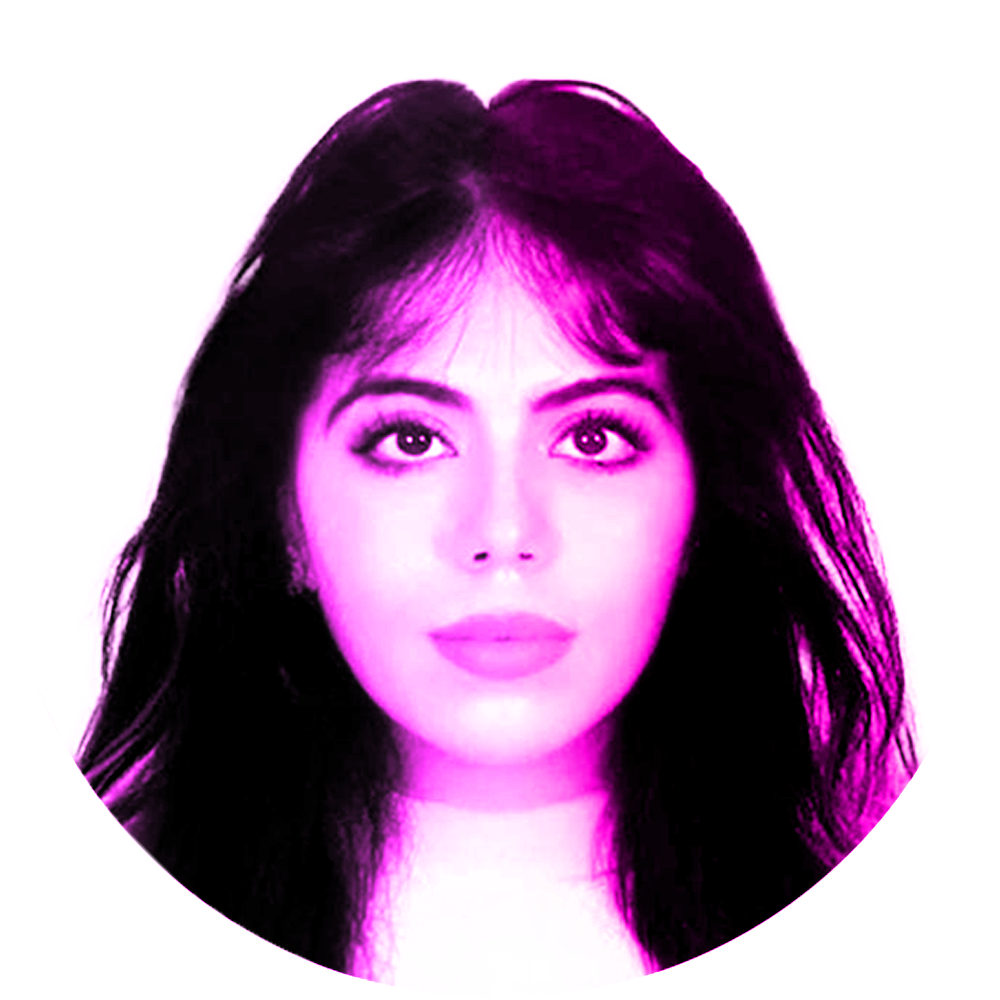
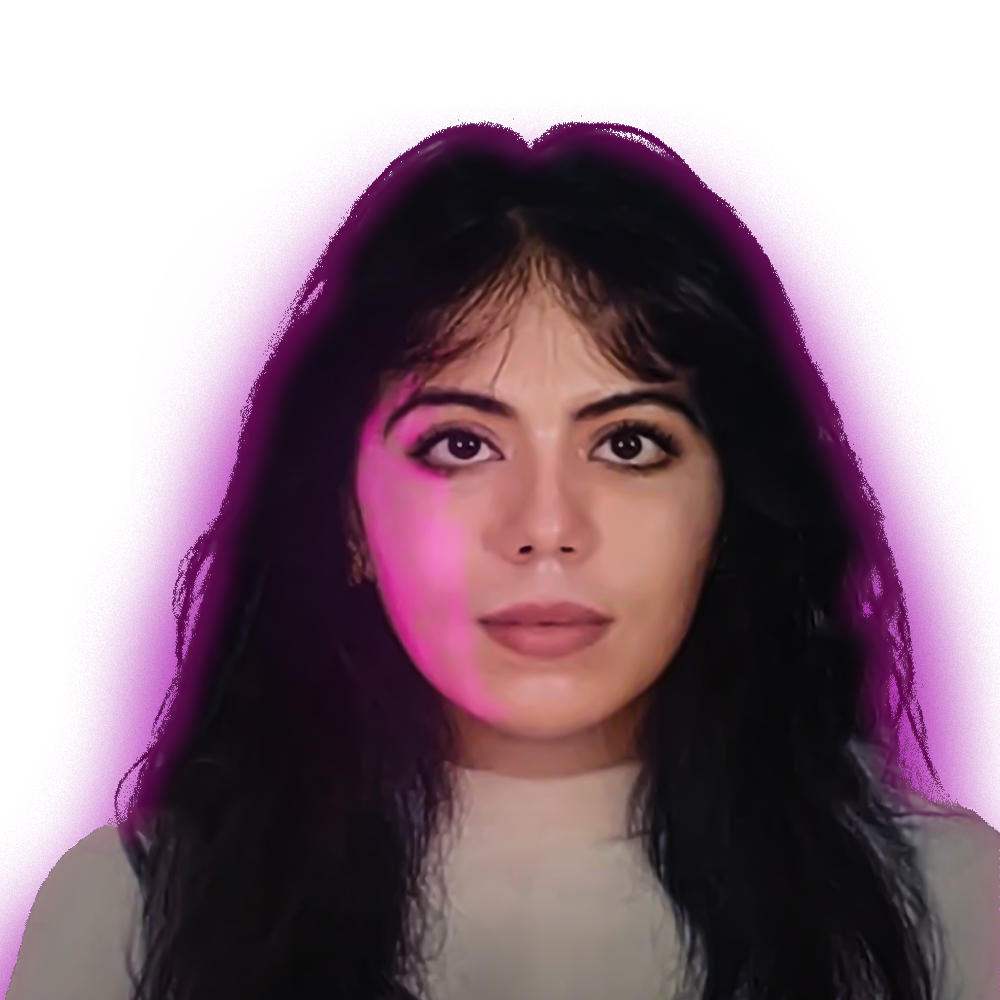
pic size

diff --git a/index.html b/index.html
@@ -51,7 +51,7 @@
             </div>
         </div>
             <div class="home-img">
-                <img src="aya.png" alt="">
+                <img src="aya1.png" alt="">
             </div>
       </section>
 
@@ -738,7 +738,7 @@
                   <img src="1.jpg" alt=""class="full-size-img">
                 </div>
                 <div class="img-item">
-                  <img src="5.jpg" alt=""class="full-size-img">
+                  <img src="background_remover_6c5b4cca2a_712e3f9e20.jpg" alt=""class="full-size-img">
                 </div>
                 <div class="img-item">
                   <img src="1.jpg" alt=""class="full-size-img">

diff --git a/style.css b/style.css
@@ -138,9 +138,9 @@ span{
 .home-img img{
     position:relative;
     top: 3rem;
-    width: 38vw;
+    width: 35vw;
     border-radius: 50%;
-    background: linear-gradient(to bottom, #ff00ea 0%, #d68fff 100%);
+    background: var(--main-color);
     cursor: pointer;
     transition: 0.4s ease-in-out;
 }
@@ -1479,7 +1479,6 @@ span{
     .tab-item.resume-item.inter p {
         font-size: 1.1rem;
         font-weight: 850;
-       
       }
 
 }  
